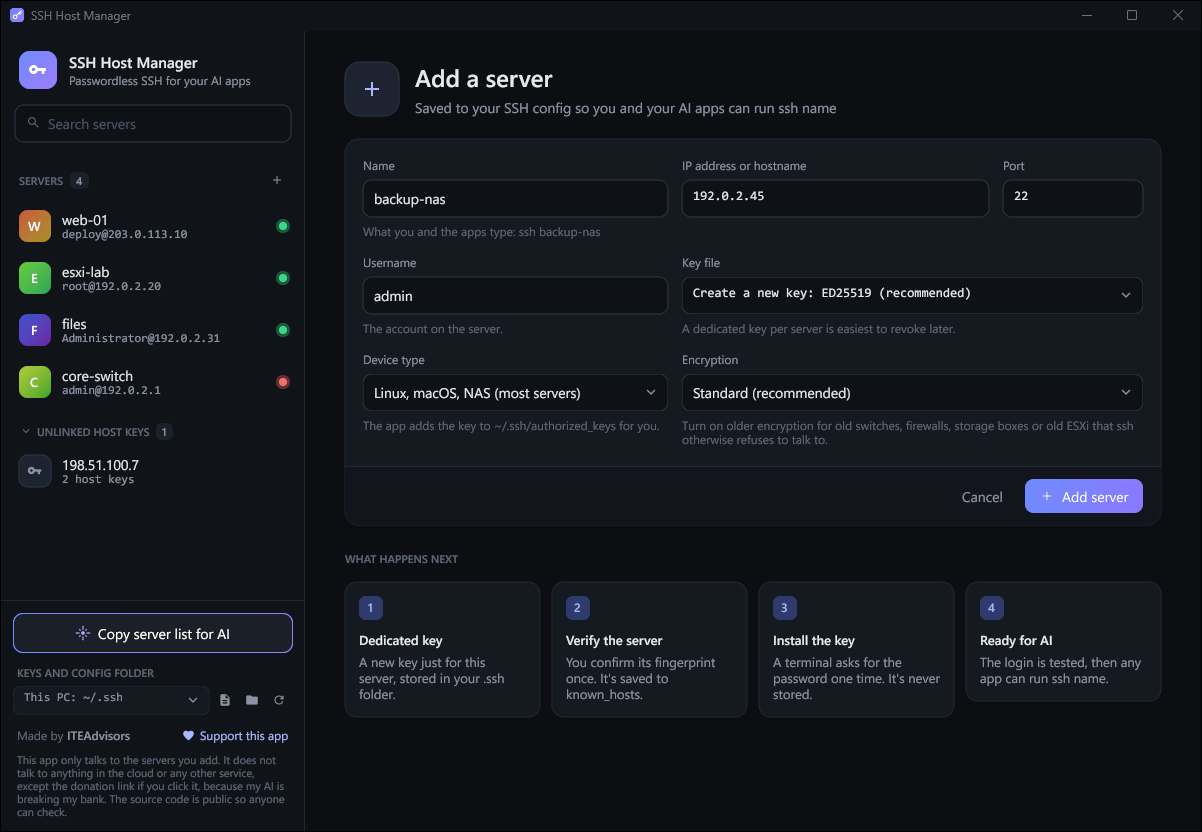
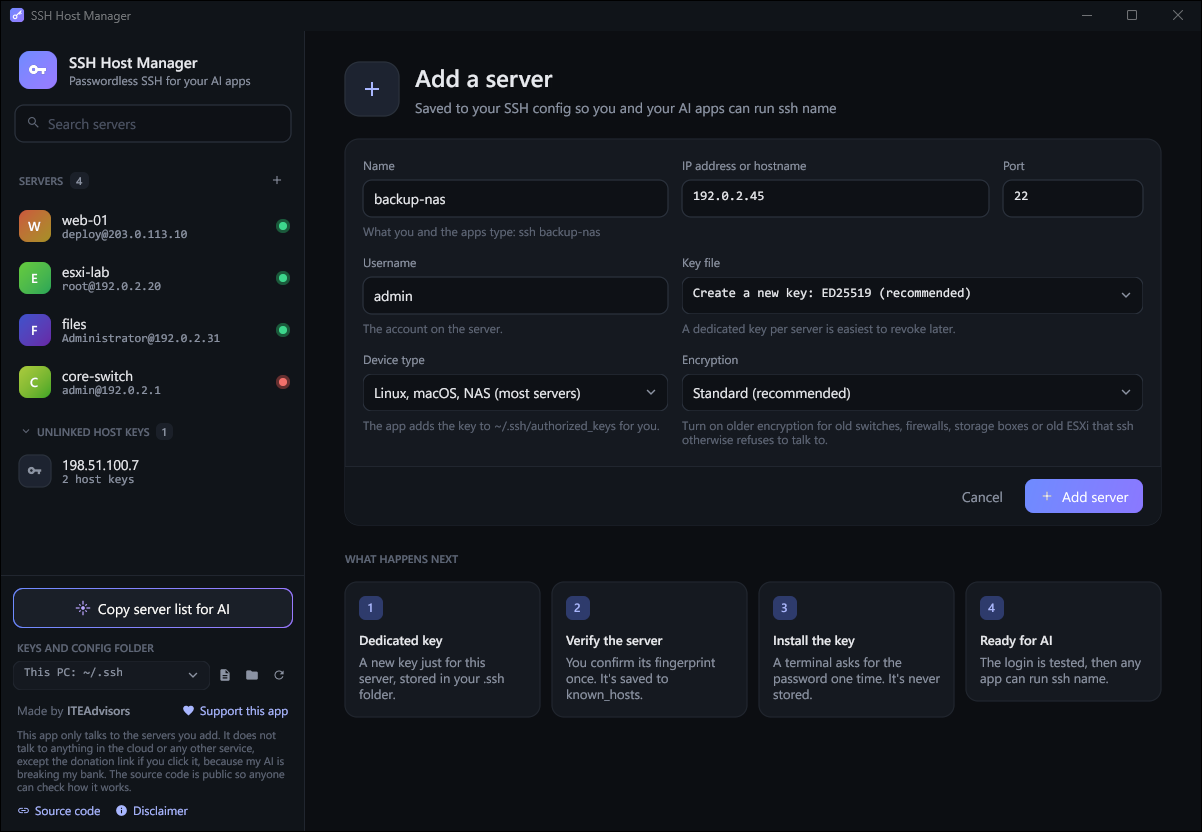
Add first-run disclaimer, source link, and build-it-yourself instructions
The app now shows a short notice on first start (no-passphrase keys and AI
access, authorized systems only, no warranty) that must be accepted before it
contacts anything. The notice can be reopened from the window, next to a link
to this repository.

README and manual gain a Disclaimer section, step-by-step build instructions,
and two accuracy notes on the privacy promise (DNS lookups for hostnames are
done by Windows; OneDrive syncing is done by OneDrive).

Changed region(s): [[0.0, 0.7188, 0.2463, 1.0]]

diff --git a/ui.go b/ui.go
@@ -34,7 +34,7 @@ import (
 
 // The promise shown in the window; the manual and README carry the same one.
 const privacyLine = "This app only talks to the servers you add. It does not talk to anything in the cloud or any other service, " +
-	"except the donation link if you click it, because my AI is breaking my bank. The source code is public so anyone can check."
+	"except the donation link if you click it, because my AI is breaking my bank. The source code is public so anyone can check how it works."
 
 // selection is what the right-hand side shows.
 type selection struct {
@@ -182,7 +182,13 @@ func (g *gui) run() error {
 			e.Frame(gtx.Ops)
 			if !g.started {
 				g.started = true
-				go g.autoTest()
+				go func() {
+					// Nothing connects anywhere until the notice has been accepted.
+					if loadSettings().Accepted != noticeVersion {
+						g.notice(true)
+					}
+					g.autoTest()
+				}()
 				go g.watchFiles()
 				if testHook != nil {
 					go testHook(g)
@@ -834,6 +840,17 @@ func (g *gui) sideRows(gtx C) D {
 
 func (g *gui) sideFoot(gtx C) D {
 	ai, cfg, fold, rel, don := g.clk("ai"), g.clk("openConfig"), g.clk("openFolder"), g.clk("reload"), g.clk("donate")
+	src, terms := g.clk("source"), g.clk("terms")
+	if src.Clicked(gtx) {
+		if err := openURL(links["source"]); err != nil {
+			g.try(err)
+		} else {
+			g.toast("Opened the source code page in your web browser", "info")
+		}
+	}
+	if terms.Clicked(gtx) && g.modal == nil {
+		go g.notice(false)
+	}
 	if ai.Clicked(gtx) {
 		g.onCopyAI()
 	}
@@ -913,6 +930,15 @@ func (g *gui) sideFoot(gtx C) D {
 					}),
 					layout.Rigid(func(gtx C) D {
 						return layout.Inset{Left: 4, Right: 4, Top: 8}.Layout(gtx, g.txt(10.5, privacyLine, colFaint).Layout)
+					}),
+					layout.Rigid(func(gtx C) D {
+						return layout.Inset{Left: 4, Right: 4, Top: 8}.Layout(gtx, func(gtx C) D {
+							return layout.Flex{Alignment: layout.Middle}.Layout(gtx,
+								layout.Rigid(func(gtx C) D { return g.link(gtx, src, icLink, "Source code") }),
+								gap(14),
+								layout.Rigid(func(gtx C) D { return g.link(gtx, terms, icInfo, "Disclaimer") }),
+							)
+						})
 					}),
 				)
 				return layout.Flex{Axis: layout.Vertical}.Layout(gtx, kids...)

diff --git a/about.go b/about.go
@@ -8,10 +8,30 @@ import (
 
 const appName = "SSH Host Manager"
 
+// sourceURL is where anyone can read this code and build the app themselves.
+const sourceURL = "https://github.com/smoke-detector/ssh-host-manager"
+
+// noticeVersion changes when the first-run notice changes, so that it is
+// shown again.
+const noticeVersion = "1"
+
+// The first-run notice. The README and manual carry the same points.
+var noticeText = []string{
+	"This app sets up SSH keys that have no passphrase, so that AI apps can log in without asking. " +
+		"Anyone, and any AI app, using this Windows account can then run any command on the servers you add.",
+	"Only add servers and devices that you own or are allowed to manage.",
+	"The app is provided as is, with no warranty of any kind. You are responsible for what you allow it, and your AI apps, to do. " +
+		"The author is not liable for any damage or loss.",
+}
+
+const noticeSource = "The app only talks to the servers you add. Its source code is public at github.com/smoke-detector/ssh-host-manager, " +
+	"so you can check how it works or build it yourself."
+
 // links are the only web addresses the app will ever open, and only in the
 // user's own browser after a click. The app itself never contacts them.
 var links = map[string]string{
 	"donate": "https://donate.stripe.com/eVq6oz0LU7ucgX19KE57W00",
+	"source": sourceURL,
 }
 
 // localUser is the name ssh logs in with when a server has no username set.

diff --git a/ui_flows.go b/ui_flows.go
@@ -7,6 +7,7 @@ package main
 import (
 	"fmt"
 	"image"
+	"os"
 	"strings"
 	"sync"
 	"time"
@@ -216,6 +217,29 @@ func (g *gui) modalBlock(gtx C, m *modal, b *mblock) D {
 		})
 	}
 	return D{}
+}
+
+// notice shows the disclaimer. On first run it must be accepted before the
+// app does anything; later it can be read again from the corner of the window.
+func (g *gui) notice(first bool) {
+	blocks := make([]mblock, 0, len(noticeText)+1)
+	for _, p := range noticeText {
+		blocks = append(blocks, mblock{kind: "p", text: p})
+	}
+	blocks = append(blocks, mblock{kind: "muted", text: noticeSource})
+	if !first {
+		g.ask(&modal{tone: "warn", icon: icInfo, title: "Disclaimer", blocks: blocks, dismiss: true, buttons: []mbtn{{label: "Close"}}})
+		return
+	}
+	if g.ask(&modal{tone: "warn", icon: icInfo, title: "Before you start", blocks: blocks,
+		buttons: []mbtn{{label: "Quit"}, {label: "I understand", v: "ok", kind: btnPrimary, icon: icCheck}}}).v != "ok" {
+		os.Exit(0)
+	}
+	s := loadSettings()
+	s.Accepted = noticeVersion
+	if err := saveSettings(s); err != nil {
+		g.fail(err)
+	}
 }
 
 // ---------- plumbing between workers and the window ----------

diff --git a/app.go b/app.go
@@ -594,7 +594,9 @@ func (a *App) setFolder(r FolderReq) error {
 	defer a.mu.Unlock()
 	a.t.use(p)
 	a.pending = map[string][]string{}
-	if err := saveSettings(settings{SSHDir: a.t.Dir}); err != nil {
+	s := loadSettings()
+	s.SSHDir = a.t.Dir
+	if err := saveSettings(s); err != nil {
 		return err
 	}
 	a.linkErr = syncLink(a.t.defaultConfig(), a.t.Config, a.t.linked())

diff --git a/folders.go b/folders.go
@@ -17,7 +17,8 @@ type Folder struct {
 }
 
 type settings struct {
-	SSHDir string `json:"sshDir,omitempty"`
+	SSHDir   string `json:"sshDir,omitempty"`
+	Accepted string `json:"accepted,omitempty"` // version of the first-run notice the user accepted
 }
 
 // dataDir holds the app's own settings.

diff --git a/MANUAL.md b/MANUAL.md
@@ -9,8 +9,9 @@ your PC (Claude, ChatGPT desktop tools, scripts) can run:
 with no password and no prompts. The IP address works in place of the name.
 
 > **This app only talks to the servers you add.** It does not talk to anything in the
-> cloud or any other service. That is why the source code is free to view: anyone can
-> check. The one exception is the donation link, which opens in your browser if you
+> cloud or any other service. The source code is free to view so that you can see for
+> yourself how the app works and that it is secure, and you can build the app from it
+> yourself. The one exception is the donation link, which opens in your browser if you
 > click it, because my AI is breaking my bank.
 
 ![A server that is ready](docs/server.png)
@@ -27,7 +28,9 @@ with no password and no prompts. The IP address works in place of the name.
 9. [Older devices](#9-older-devices)
 10. [When something goes wrong](#10-when-something-goes-wrong)
 11. [Privacy and security](#11-privacy-and-security)
-12. [Support the app](#12-support-the-app)
+12. [Build it yourself](#12-build-it-yourself)
+13. [Disclaimer](#13-disclaimer)
+14. [Support the app](#14-support-the-app)
 
 ## 1. What you need
 - Windows 10 or 11.
@@ -42,6 +45,12 @@ Get `SSHHostManager.exe` from the [Releases](../../releases) page of this reposi
 is published there, or build it from the source (see the [README](README.md#build)). Then run it.
 There is no installer and nothing else to install. You can
 keep the file anywhere, including inside your `.ssh` folder.
+
+The first time it starts, the app shows a short notice and asks you to accept it. Nothing
+is contacted before you do. You can read it again later from **Disclaimer** at the
+bottom left of the window.
+
+![The notice shown at first start](docs/first-run.png)
 
 ![The first screen](docs/welcome.png)
 
@@ -149,6 +158,9 @@ turns off by default. When a login fails for that reason the app says so and off
 **Allow and retry**. You can also set **Encryption** to *Also allow older encryption*
 yourself. The setting applies to that one server only, and the server gets an RSA key.
 
+Older encryption is weaker. It lowers the security of the connection to that device, so
+use it only where the device offers nothing better.
+
 ## 10. When something goes wrong
 | Message | What it means | What to do |
 | --- | --- | --- |
@@ -174,7 +186,12 @@ itself does not contact the payment site.
 
 **Check it yourself.** Open Resource Monitor (search for it in the Start menu), go to
 the **Network** tab and tick `SSHHostManager.exe` and `ssh.exe`. The only addresses you
-will see are the servers in your list.
+will see are the servers in your list. You can also read the source code and
+[build the app yourself](#12-build-it-yourself).
+
+**Two things happen outside the app.** If you enter a hostname instead of an IP
+address, Windows looks the name up through your usual DNS server, as it does for any
+program. If you choose the OneDrive folder, OneDrive, not this app, syncs the files.
 
 **Passwords** are typed into `ssh`'s own terminal window. The app never receives them.
 
@@ -185,6 +202,42 @@ one without touching the others.
 **No administrator rights.** Everything the app changes is inside your own user profile
 or the folder you chose.
 
-## 12. Support the app
+## 12. Build it yourself
+The source code is public so that you can see how the app works, and so that you do not
+have to trust a ready-made file. Building it takes a few minutes.
+
+1. Install Go 1.26 or newer from https://go.dev/dl. No C compiler is needed.
+2. Get the source: on the repository page choose **Code > Download ZIP** and unzip it,
+   or run `git clone https://github.com/smoke-detector/ssh-host-manager`.
+3. Open a terminal in that folder and run:
+
+       go build -trimpath -ldflags "-H windowsgui -s -w" -o SSHHostManager.exe .
+
+4. Run the `SSHHostManager.exe` that appears in the folder.
+
+The first build downloads the drawing toolkit ([Gio](https://gioui.org)) and Go's
+support libraries. Their versions are pinned in `go.mod` and their checksums in `go.sum`,
+so you get exactly the code this repository was tested with.
+
+The README lists what each source file does and how to check what went into the file
+you built.
+
+## 13. Disclaimer
+- **No warranty.** The app is provided as is, with no warranty of any kind. The author
+  is not liable for any damage or loss from using it.
+- **You are responsible for what you allow.** The keys have no passphrase so that AI
+  apps can log in without asking. Anyone, and any AI app, using your Windows account can
+  then run any command on the servers you add, including destructive ones.
+- **Authorized systems only.** Only add servers and devices that you own or are allowed
+  to manage.
+- **Older encryption is weaker.** Allowing it for a device lowers the security of the
+  connection to that device. Use it only where the device offers nothing better.
+- **Donations are voluntary.** A donation is a gift, not a purchase, and comes with no
+  support or service obligation.
+- **Not affiliated.** This app is not affiliated with or endorsed by Anthropic, OpenAI,
+  Microsoft, VMware or any other company named here. Their names are trademarks of
+  their owners.
+
+## 14. Support the app
 SSH Host Manager is made by ITEAdvisors and is free. If it saves you time, you can
 [make a donation](https://donate.stripe.com/eVq6oz0LU7ucgX19KE57W00).

diff --git a/README.md b/README.md
@@ -6,8 +6,9 @@ you and AI apps (Claude, ChatGPT, anything that can run a shell command) can run
 place of the name: `ssh 203.0.113.10 "<command>"`.
 
 > **This app only talks to the servers you add.** It does not talk to anything in the
-> cloud or any other service. That is why the source code is free to view: anyone can
-> check. The one exception is the donation link, which opens in your browser if you
+> cloud or any other service. The source code is free to view so that you can see for
+> yourself how the app works and that it is secure, and you can build the app from it
+> yourself. The one exception is the donation link, which opens in your browser if you
 > click it, because my AI is breaking my bank.
 
 Made by ITEAdvisors. Free to use. [Donate](https://donate.stripe.com/eVq6oz0LU7ucgX19KE57W00) if it helps you.
@@ -30,10 +31,16 @@ Made by ITEAdvisors. Free to use. [Donate](https://donate.stripe.com/eVq6oz0LU7u
   web page, and no HTTP client is compiled into the program.
 - The only network code is in `tools.go`: a TCP check of the address you entered, and
   the `ssh`, `ssh-keygen` and `ssh-keyscan` programs that come with Windows.
-- The only web address in the source is the donation link in `about.go`. It is handed
-  to your default browser when you click it; the app never contacts it.
+- The only web addresses in the source are the donation link and this repository's
+  address, both in `about.go`. They are handed to your default browser when you click
+  them; the app never contacts them.
 - Watch it yourself: open Resource Monitor, go to the Network tab, and tick
   `SSHHostManager.exe` and `ssh.exe`. You will only see the servers you added.
+- Build it yourself (below), so that what you run is exactly what you read.
+
+Two things happen outside the app. If you enter a hostname instead of an IP
+address, Windows looks the name up through your usual DNS server, as it does for any
+program. If you choose the OneDrive folder, OneDrive, not this app, syncs the files.
 
 ## What it manages
 - `config`: only the block between the `# >>> SSH Server Manager` markers is
@@ -50,12 +57,31 @@ When the app works in a folder other than `%USERPROFILE%\.ssh`, it adds a small
 the permissions of the config and keys it writes there (ssh refuses them otherwise).
 The folder choice is remembered in `%LOCALAPPDATA%\SSHHostManager\settings.json`.
 
-## Build
-Requires Go 1.26+ on Windows. The window uses [Gio](https://gioui.org), a pure-Go
-drawing toolkit; no C compiler is needed.
+## Build it yourself
+You are welcome to read the source and build the app for your own use.
 
-    go run github.com/tc-hib/go-winres@latest make --in winres/winres.json --arch amd64   # icon, manifest, version info
-    go build -trimpath -ldflags "-H windowsgui -s -w" -o SSHHostManager.exe .
+1. Install Go 1.26 or newer from https://go.dev/dl. No C compiler is needed.
+2. Get the source: on the repository page choose **Code > Download ZIP** and unzip it,
+   or run `git clone https://github.com/smoke-detector/ssh-host-manager`.
+3. Open a terminal in that folder and run:
+
+       go build -trimpath -ldflags "-H windowsgui -s -w" -o SSHHostManager.exe .
+
+4. Run the `SSHHostManager.exe` that appears in the folder.
+
+The first build downloads the drawing toolkit ([Gio](https://gioui.org)) and Go's
+support libraries. Their versions are pinned in `go.mod` and their checksums in `go.sum`,
+so you get exactly the code this repository was tested with.
+
+To check what went into the file you built:
+
+    go version -m SSHHostManager.exe      # lists every library inside the exe
+    go list -deps . | findstr net/http    # prints nothing: no web client is included
+
+The icon and version details are in `rsrc_windows_amd64.syso`, which is included. Only
+if you change `winres/winres.json` or the icons do you need to regenerate it:
+
+    go run github.com/tc-hib/go-winres@latest make --in winres/winres.json --arch amd64
 
 | File | What is in it |
 | --- | --- |
@@ -71,3 +97,22 @@ instead of the real one. `SSHKEYS_ONEDRIVE_DIR` and `SSHKEYS_DATA_DIR` do the sa
 OneDrive and for the app's settings folder.
 
 Runtime requirements: Windows 10 or 11 with the OpenSSH Client (built in).
+
+## Disclaimer
+- **No warranty.** The app is provided as is, with no warranty of any kind. The author
+  is not liable for any damage or loss from using it.
+- **You are responsible for what you allow.** The keys have no passphrase so that AI
+  apps can log in without asking. Anyone, and any AI app, using your Windows account can
+  then run any command on the servers you add, including destructive ones.
+- **Authorized systems only.** Only add servers and devices that you own or are allowed
+  to manage.
+- **Older encryption is weaker.** Allowing it for a device lowers the security of the
+  connection to that device. Use it only where the device offers nothing better.
+- **Donations are voluntary.** A donation is a gift, not a purchase, and comes with no
+  support or service obligation.
+- **Not affiliated.** This app is not affiliated with or endorsed by Anthropic, OpenAI,
+  Microsoft, VMware or any other company named here. Their names are trademarks of
+  their owners.
+
+The app shows the first three points when it is first started and asks you to accept
+them. You can read them again from **Disclaimer** at the bottom left of the window.
